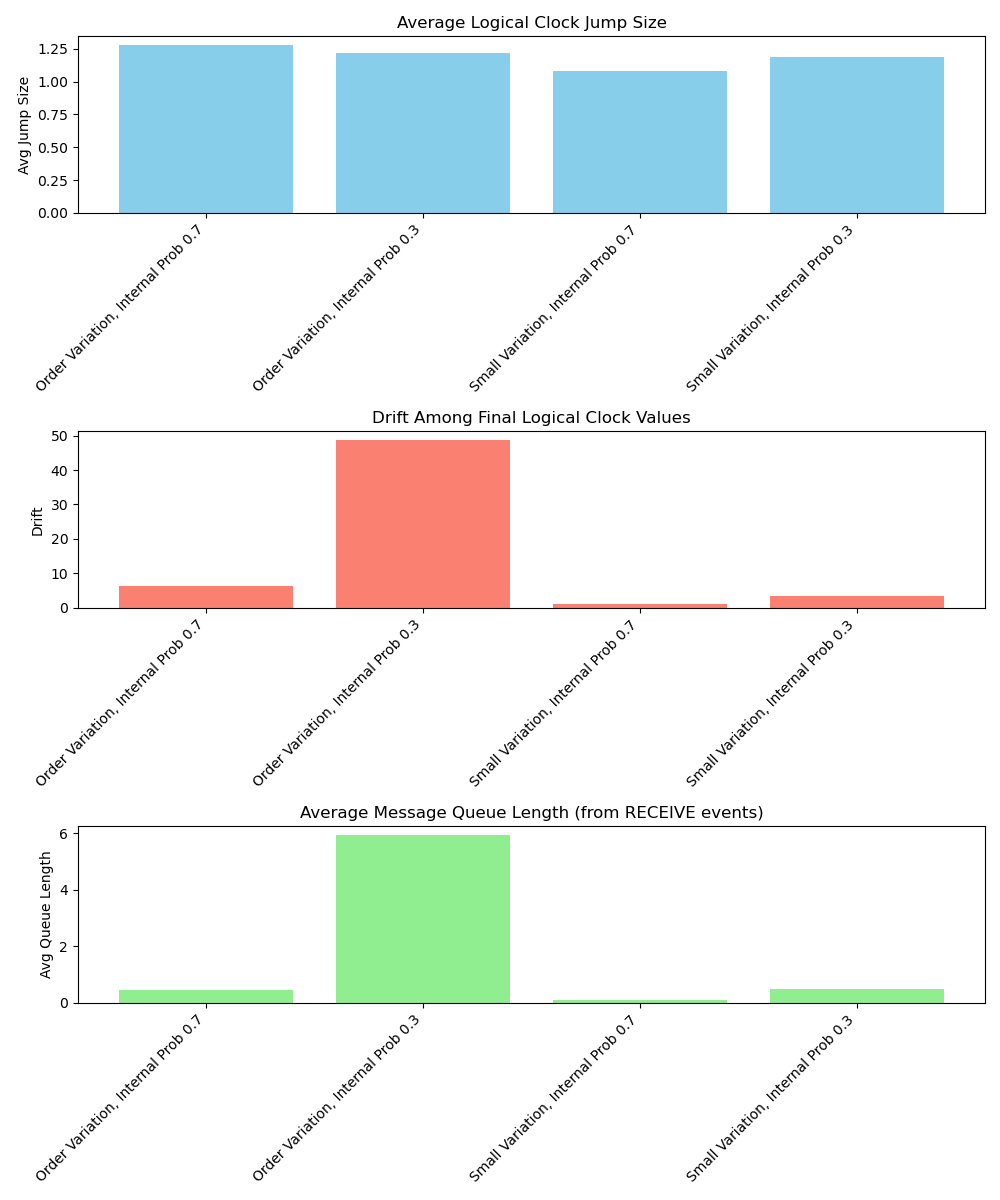
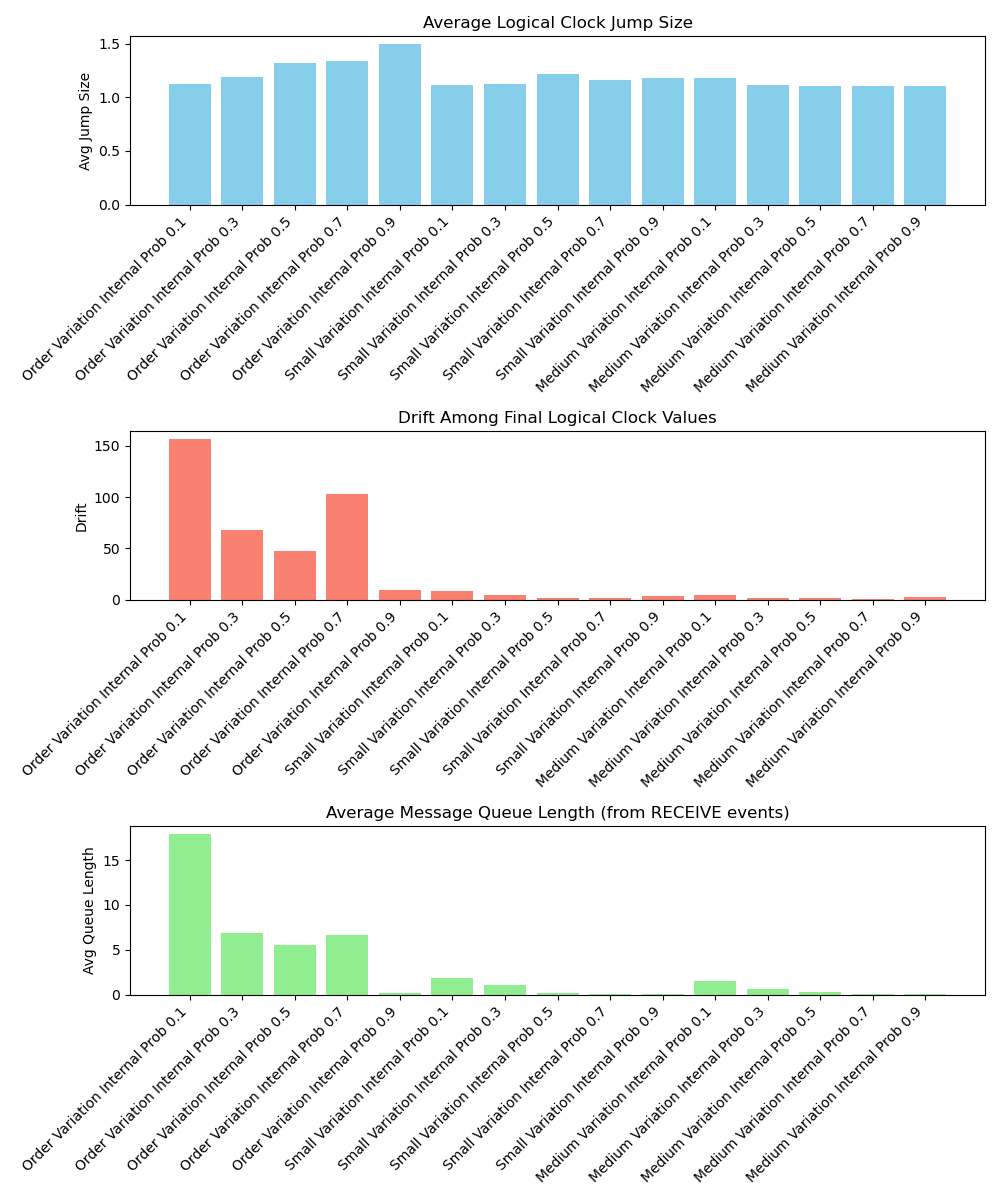
forgot to store the print statements AHHH

diff --git a/analyze.py b/analyze.py
@@ -14,8 +14,8 @@ It then produces descriptive bar plots summarizing these findings across conditi
 Experimental Conditions:
   1. Order variation (clock rates vary 1-6), internal event probability = 0.7.
   2. Order variation (clock rates vary 1-6), internal event probability = 0.3.
-  3. Small variation (clock rates vary 2-3), internal event probability = 0.7.
-  4. Small variation (clock rates vary 2-3), internal event probability = 0.3.
+  3. Small variation (clock rates vary 1-2), internal event probability = 0.7.
+  4. Small variation (clock rates vary 1-2), internal event probability = 0.3.
 
 Usage:
     python run_experiments.py
@@ -262,10 +262,24 @@ if __name__ == "__main__":
     # Define experimental conditions.
     # Each condition is a dict with: label, variation_mode, internal_prob.
     experiment_conditions = [
-        {"label": "Order Variation, Internal Prob 0.7", "variation_mode": "order", "internal_prob": 0.7},
-        {"label": "Order Variation, Internal Prob 0.3", "variation_mode": "order", "internal_prob": 0.3},
-        {"label": "Small Variation, Internal Prob 0.7", "variation_mode": "small", "internal_prob": 0.7},
-        {"label": "Small Variation, Internal Prob 0.3", "variation_mode": "small", "internal_prob": 0.3},
+        {"label": "Order Variation Internal Prob 0.1", "variation_mode": "order", "internal_prob": 0.1},
+        {"label": "Order Variation Internal Prob 0.3", "variation_mode": "order", "internal_prob": 0.3},
+        {"label": "Order Variation Internal Prob 0.5", "variation_mode": "order", "internal_prob": 0.5},
+        {"label": "Order Variation Internal Prob 0.7", "variation_mode": "order", "internal_prob": 0.5},
+        {"label": "Order Variation Internal Prob 0.9", "variation_mode": "order", "internal_prob": 0.9},
+        
+        {"label": "Small Variation Internal Prob 0.1", "variation_mode": "small", "internal_prob": 0.1},
+        {"label": "Small Variation Internal Prob 0.3", "variation_mode": "small", "internal_prob": 0.3},
+        {"label": "Small Variation Internal Prob 0.5", "variation_mode": "small", "internal_prob": 0.5},
+        {"label": "Small Variation Internal Prob 0.7", "variation_mode": "small", "internal_prob": 0.7},
+        {"label": "Small Variation Internal Prob 0.9", "variation_mode": "small", "internal_prob": 0.9},
+    
+        {"label": "Medium Variation Internal Prob 0.1", "variation_mode": "small", "internal_prob": 0.1},
+        {"label": "Medium Variation Internal Prob 0.3", "variation_mode": "small", "internal_prob": 0.3},
+        {"label": "Medium Variation Internal Prob 0.5", "variation_mode": "small", "internal_prob": 0.5},
+        {"label": "Medium Variation Internal Prob 0.7", "variation_mode": "small", "internal_prob": 0.7},
+        {"label": "Medium Variation Internal Prob 0.9", "variation_mode": "small", "internal_prob": 0.9},
+    
     ]
     
     # Each trial runs for 60 seconds and we perform 5 trials per condition.
@@ -287,12 +301,3 @@ if __name__ == "__main__":
     # Generate a summary plot comparing all conditions.
     plot_summary(overall_results)
     
-    # Final observations (to be recorded in your lab notebook):
-    print("\nObservations:")
-    print("1. The average jump size in the logical clocks increases when internal events occur less frequently (i.e. lower internal_prob),")
-    print("   since message receives force the clock to update to max(local, received) + 1.")
-    print("2. The drift between VMs (difference between highest and lowest final LC values) is also impacted by the variation in clock rates.")
-    print("   When using the 'order' variation mode, clock rates differ more (1-6 ticks/sec) than in 'small' (2-3 ticks/sec),")
-    print("   typically leading to larger drift.")
-    print("3. Average message queue lengths (as seen in RECEIVE events) vary and can indicate congestion when sending events are more frequent.")
-    print("   Refer to the generated plots for a visual summary of these behaviors.")

diff --git a/main.py b/main.py
@@ -232,6 +232,8 @@ class VirtualMachine:
         for s in self.peer_sockets.values():
             s.close()
 
+import sys
+
 def main():
     parser = argparse.ArgumentParser(description="Distributed simulation for logical clocks.")
     parser.add_argument("--run_time", type=int, required=True, help="Duration of the simulation in seconds.")
@@ -245,11 +247,18 @@ def main():
     os.makedirs(args.log_dir, exist_ok=True)
     delete_log_files(args.log_dir)
 
+    # Redirect stdout and stderr to a log file
+    log_file_path = os.path.join(args.log_dir, "simulation.log")
+    sys.stdout = open(log_file_path, "w")
+    sys.stderr = sys.stdout  # Redirect stderr as well
+
     # Determine clock rate range based on variation mode.
     if args.variation_mode == "order":
         clock_rate_range = (1, 6)
-    else:
+    elif args.variation_mode == "small":
         clock_rate_range = (2, 3)
+    else: 
+        clock_rate_range = (1, 4)  # medium 
 
     # Configuration for three virtual machines.
     config = {
@@ -286,6 +295,9 @@ def main():
     # Wait for all threads to finish.
     for t in threads:
         t.join()
+
+    # Close the log file properly
+    sys.stdout.close()
 
 if __name__ == "__main__":
     main()

diff --git a/journal.md b/journal.md
@@ -22,11 +22,19 @@ https://github.com/Nickanda/cs2620
       - [Progress](#progress-2)
       - [Next Steps](#next-steps-2)
   - [Report on Findings](#report-on-findings)
-        - [Order Variation, Internal Prob 0.7](#order-variation-internal-prob-07)
-        - [Order Variation, Internal Prob 0.3](#order-variation-internal-prob-03)
-        - [Small Variation, Internal Prob 0.7](#small-variation-internal-prob-07)
-        - [Small Variation, Internal Prob 0.3](#small-variation-internal-prob-03)
-      - [Overall Observations](#overall-observations)
+  - [Appendix (Raw Data)](#appendix-raw-data)
+    - [Order Variation](#order-variation)
+      - [Order Variation, Internal Prob 0.1](#order-variation-internal-prob-01)
+      - [Order Variation, Internal Prob 0.3](#order-variation-internal-prob-03)
+      - [Order Variation, Internal Prob 0.5](#order-variation-internal-prob-05)
+      - [Order Variation, Internal Prob 0.7](#order-variation-internal-prob-07)
+      - [Order Variation, Internal Prob 0.9](#order-variation-internal-prob-09)
+    - [Small Variation](#small-variation)
+      - [Small Variation, Internal Prob 0.1](#small-variation-internal-prob-01)
+      - [Small Variation, Internal Prob 0.3](#small-variation-internal-prob-03)
+      - [Small Variation, Internal Prob 0.5](#small-variation-internal-prob-05)
+      - [Small Variation, Internal Prob 0.7](#small-variation-internal-prob-07)
+      - [Small Variation, Internal Prob 0.9](#small-variation-internal-prob-09)
 
 ## Development Log
 
@@ -76,7 +84,6 @@ https://github.com/Nickanda/cs2620
 - Had to adapt `main.py` to support experimentation by adding parameters to modify clock rate and internal event probability
 - Logical clock updates sometimes had unexpectedly large jumps and there were sometimes inconsistent results across trials/high variability in message queue lengths due to a variable naming error
 
-
 #### Next Steps
 
 - Make sure at least 5 trials were conducted per experimental condition to confirm the observed trends are consistent 
@@ -104,66 +111,7 @@ https://github.com/Nickanda/cs2620
 
 ## Report on Findings
 
-As described above, we decided to run experiments under four conditions, with the following raw data across five trials. 
-
-##### Order Variation, Internal Prob 0.7
-
-| Trial Number | VM 1 clock rate | VM 2 clock rate | VM 3 clock rate | avg_jump | drift | avg_queue_length |
-|-------------|----------------|----------------|----------------|----------|-------|------------------|
-| 1           | 3              | 6              | 5              | 1.28     | 3     | 0.33             |
-| 2           | 6              | 2              | 6              | 1.26     | 16    | 1.48             |
-| 3           | 2              | 1              | 3              | 1.47     | 8     | 0.23             |
-| 4           | 6              | 5              | 5              | 1.12     | 2     | 0.06             |
-| 5           | 5              | 3              | 6              | 1.28     | 2     | 0.16             |
-
-- **Average Jump Size:** 1.28
-- **Drift among VMs:** 6.2
-- **Average Queue Length (RECEIVE events):** 0.45
-
-##### Order Variation, Internal Prob 0.3
-
-| Trial Number | VM 1 clock rate | VM 2 clock rate | VM 3 clock rate | avg_jump | drift | avg_queue_length |
-|-------------|----------------|----------------|----------------|----------|-------|------------------|
-| 1           | 4              | 4              | 4              | 1.00     | 0     | 0.22             |
-| 2           | 6              | 6              | 5              | 1.06     | 0     | 0.31             |
-| 3           | 1              | 1              | 3              | 1.33     | 71    | 16.62            |
-| 4           | 5              | 3              | 3              | 1.36     | 3     | 0.70             |
-| 5           | 1              | 5              | 3              | 1.34     | 170   | 11.88            |
-
-- **Average Jump Size:** 1.22
-- **Drift among VMs:** 48.8
-- **Average Queue Length (RECEIVE events):** 5.95
-
-##### Small Variation, Internal Prob 0.7
-
-| Trial Number | VM 1 clock rate | VM 2 clock rate | VM 3 clock rate | avg_jump | drift | avg_queue_length |
-|-------------|----------------|----------------|----------------|----------|-------|------------------|
-| 1           | 3              | 3              | 3              | 1.00     | 1     | 0.11             |
-| 2           | 3              | 3              | 3              | 1.00     | 1     | 0.06             |
-| 3           | 2              | 3              | 3              | 1.12     | 2     | 0.14             |
-| 4           | 3              | 2              | 2              | 1.27     | 2     | 0.22             |
-| 5           | 2              | 2              | 2              | 1.00     | 0     | 0.05             |
-
-- **Average Jump Size:** 1.08
-- **Drift among VMs:** 1.2
-- **Average Queue Length (RECEIVE events):** 0.12
-
-##### Small Variation, Internal Prob 0.3
-
-| Trial Number | VM 1 clock rate | VM 2 clock rate | VM 3 clock rate | avg_jump | drift | avg_queue_length |
-|-------------|----------------|----------------|----------------|----------|-------|------------------|
-| 1           | 2              | 3              | 2              | 1.28     | 1     | 0.61             |
-| 2           | 2              | 3              | 2              | 1.27     | 6     | 0.60             |
-| 3           | 3              | 2              | 3              | 1.11     | 6     | 0.60             |
-| 4           | 3              | 2              | 2              | 1.27     | 4     | 0.40             |
-| 5           | 2              | 2              | 2              | 1.00     | 0     | 0.16             |
-
-- **Average Jump Size:** 1.19
-- **Drift among VMs:** 3.4
-- **Average Queue Length (RECEIVE events):** 0.48
-
-#### Overall Observations
-
+As described above, we decided to run experiments under four conditions, with the following raw data across five trials in the Appendix of this markdown file. Overall, we observed that:
 
 1. The average jump size in the logical clocks increases when internal events occur less frequently (i.e. lower internal_prob), since message receives force the clock to update to max(local, received) + 1.
    - This effect is most pronounced in the order variation setting, where fast VMs frequently send to slow ones.
@@ -179,3 +127,150 @@ As described above, we decided to run experiments under four conditions, with th
 
 Overall, the impacts described above can be seen in the following plot:
 ![Plot summary](experiment_summary.png)  
+
+## Appendix (Raw Data)
+
+### Order Variation
+
+#### Order Variation, Internal Prob 0.1
+
+| Trial Number | VM 1 clock rate | VM 2 clock rate | VM 3 clock rate | avg_jump | drift | avg_queue_length |
+|-------------|----------------|----------------|----------------|----------|-------|------------------|
+| 1           | 2              | 5              | 5              | 1.05     | 141   | 19.40            |
+| 2           | 3              | 1              | 6              | 1.27     | 255   | 33.01            |
+| 3           | 1              | 2              | 2              | 1.06     | 43    | 5.91             |
+| 4           | 1              | 3              | 5              | 1.30     | 190   | 17.17            |
+| 5           | 1              | 1              | 5              | 1.16     | 205   | 63.35            |
+
+- **Average Jump Size:** 1.17
+- **Drift among VMs:** 166.8
+- **Average Queue Length (RECEIVE events):** 27.77
+
+#### Order Variation, Internal Prob 0.3
+
+| Trial Number | VM 1 clock rate | VM 2 clock rate | VM 3 clock rate | avg_jump | drift | avg_queue_length |
+|-------------|----------------|----------------|----------------|----------|-------|------------------|
+| 1           | 4              | 4              | 4              | 1.00     | 0     | 0.22             |
+| 2           | 6              | 6              | 5              | 1.06     | 0     | 0.31             |
+| 3           | 1              | 1              | 3              | 1.33     | 71    | 16.62            |
+| 4           | 5              | 3              | 3              | 1.36     | 3     | 0.70             |
+| 5           | 1              | 5              | 3              | 1.34     | 170   | 11.88            |
+
+- **Average Jump Size:** 1.22
+- **Drift among VMs:** 48.8
+- **Average Queue Length (RECEIVE events):** 5.95
+
+#### Order Variation, Internal Prob 0.5
+
+| Trial Number | VM 1 clock rate | VM 2 clock rate | VM 3 clock rate | avg_jump | drift | avg_queue_length |
+|-------------|----------------|----------------|----------------|----------|-------|------------------|
+| 1           | 3              | 4              | 5              | 1.24     | 3     | 0.29             |
+| 2           | 5              | 3              | 6              | 1.28     | 1     | 0.62             |
+| 3           | 6              | 5              | 2              | 1.26     | 88    | 9.25             |
+| 4           | 4              | 2              | 2              | 1.48     | 6     | 0.64             |
+| 5           | 1              | 6              | 2              | 1.59     | 192   | 11.74            |
+
+- **Average Jump Size:** 1.37
+- **Drift among VMs:** 58.0
+- **Average Queue Length (RECEIVE events):** 4.51
+
+#### Order Variation, Internal Prob 0.7
+
+| Trial Number | VM 1 clock rate | VM 2 clock rate | VM 3 clock rate | avg_jump | drift | avg_queue_length |
+|-------------|----------------|----------------|----------------|----------|-------|------------------|
+| 1           | 3              | 6              | 5              | 1.28     | 3     | 0.33             |
+| 2           | 6              | 2              | 6              | 1.26     | 16    | 1.48             |
+| 3           | 2              | 1              | 3              | 1.47     | 8     | 0.23             |
+| 4           | 6              | 5              | 5              | 1.12     | 2     | 0.06             |
+| 5           | 5              | 3              | 6              | 1.28     | 2     | 0.16             |
+
+- **Average Jump Size:** 1.28
+- **Drift among VMs:** 6.2
+- **Average Queue Length (RECEIVE events):** 0.45
+
+#### Order Variation, Internal Prob 0.9
+
+| Trial Number | VM 1 clock rate | VM 2 clock rate | VM 3 clock rate | avg_jump | drift | avg_queue_length |
+|-------------|----------------|----------------|----------------|----------|-------|------------------|
+| 1           | 5              | 4              | 5              | 1.07     | 2     | 0.02             |
+| 2           | 6              | 3              | 1              | 1.74     | 34    | 0.26             |
+| 3           | 3              | 4              | 5              | 1.24     | 2     | 0.03             |
+| 4           | 5              | 1              | 2              | 1.85     | 8     | 0.11             |
+| 5           | 4              | 3              | 2              | 1.30     | 9     | 0.00             |
+
+- **Average Jump Size:** 1.44
+- **Drift among VMs:** 11.0
+- **Average Queue Length (RECEIVE events):** 0.08
+
+### Small Variation
+
+#### Small Variation, Internal Prob 0.1
+
+| Trial Number | VM 1 clock rate | VM 2 clock rate | VM 3 clock rate | avg_jump | drift | avg_queue_length |
+|-------------|----------------|----------------|----------------|----------|-------|------------------|
+| 1           | 2              | 2              | 3              | 1.27     | 6     | 0.98             |
+| 2           | 2              | 2              | 3              | 1.27     | 3     | 2.68             |
+| 3           | 3              | 3              | 3              | 1.00     | 0     | 0.45             |
+| 4           | 3              | 3              | 3              | 1.00     | 0     | 0.29             |
+| 5           | 2              | 2              | 2              | 1.00     | 0     | 0.25             |
+
+- **Average Jump Size:** 1.11
+- **Drift among VMs:** 1.8
+- **Average Queue Length (RECEIVE events):** 0.93
+
+#### Small Variation, Internal Prob 0.3
+
+| Trial Number | VM 1 clock rate | VM 2 clock rate | VM 3 clock rate | avg_jump | drift | avg_queue_length |
+|-------------|----------------|----------------|----------------|----------|-------|------------------|
+| 1           | 2              | 3              | 2              | 1.28     | 1     | 0.61             |
+| 2           | 2              | 3              | 2              | 1.27     | 6     | 0.60             |
+| 3           | 3              | 2              | 3              | 1.11     | 6     | 0.60             |
+| 4           | 3              | 2              | 2              | 1.27     | 4     | 0.40             |
+| 5           | 2              | 2              | 2              | 1.00     | 0     | 0.16             |
+
+- **Average Jump Size:** 1.19
+- **Drift among VMs:** 3.4
+- **Average Queue Length (RECEIVE events):** 0.48
+
+#### Small Variation, Internal Prob 0.5
+
+| Trial Number | VM 1 clock rate | VM 2 clock rate | VM 3 clock rate | avg_jump | drift | avg_queue_length |
+|-------------|----------------|----------------|----------------|----------|-------|------------------|
+| 1           | 3              | 2              | 3              | 1.12     | 3     | 0.12             |
+| 2           | 2              | 3              | 3              | 1.13     | 1     | 0.53             |
+| 3           | 2              | 2              | 3              | 1.28     | 2     | 0.33             |
+| 4           | 3              | 2              | 3              | 1.12     | 2     | 0.29             |
+| 5           | 2              | 3              | 2              | 1.27     | 2     | 0.25             |
+
+- **Average Jump Size:** 1.18
+- **Drift among VMs:** 2.0
+- **Average Queue Length (RECEIVE events):** 0.30
+
+#### Small Variation, Internal Prob 0.7
+
+| Trial Number | VM 1 clock rate | VM 2 clock rate | VM 3 clock rate | avg_jump | drift | avg_queue_length |
+|-------------|----------------|----------------|----------------|----------|-------|------------------|
+| 1           | 3              | 3              | 3              | 1.00     | 1     | 0.11             |
+| 2           | 3              | 3              | 3              | 1.00     | 1     | 0.06             |
+| 3           | 2              | 3              | 3              | 1.12     | 2     | 0.14             |
+| 4           | 3              | 2              | 2              | 1.27     | 2     | 0.22             |
+| 5           | 2              | 2              | 2              | 1.00     | 0     | 0.05             |
+
+- **Average Jump Size:** 1.08
+- **Drift among VMs:** 1.2
+- **Average Queue Length (RECEIVE events):** 0.12
+
+#### Small Variation, Internal Prob 0.9
+
+| Trial Number | VM 1 clock rate | VM 2 clock rate | VM 3 clock rate | avg_jump | drift | avg_queue_length |
+|-------------|----------------|----------------|----------------|----------|-------|------------------|
+| 1           | 2              | 2              | 2              | 1.00     | 0     | 0.03             |
+| 2           | 3              | 2              | 3              | 1.12     | 2     | 0.00             |
+| 3           | 2              | 3              | 2              | 1.26     | 8     | 0.08             |
+| 4           | 3              | 2              | 3              | 1.12     | 2     | 0.02             |
+| 5           | 3              | 2              | 2              | 1.28     | 2     | 0.02             |
+
+**Condition [Small Variation, Internal Prob 0.9] averaged over 5 trials:**
+- **Average Jump Size:** 1.16
+- **Drift among VMs:** 2.8
+- **Average Queue Length (RECEIVE events):** 0.03
